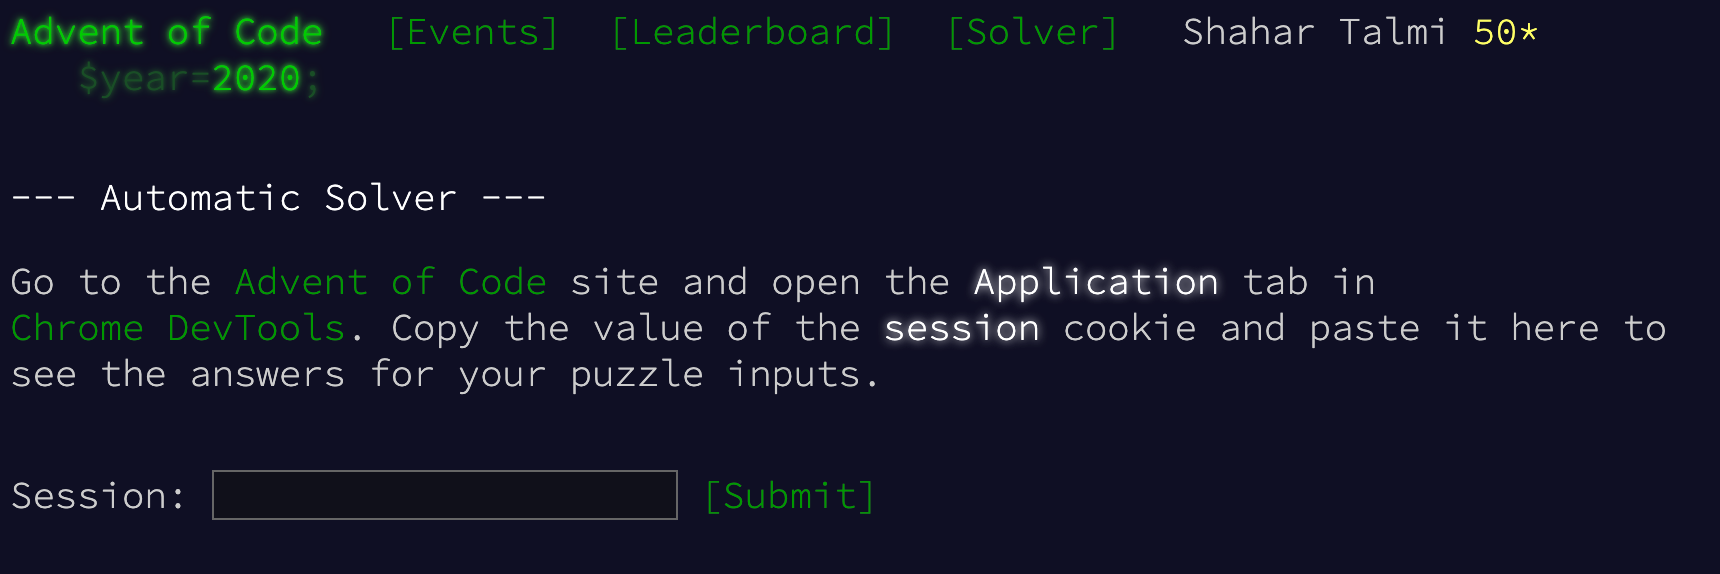
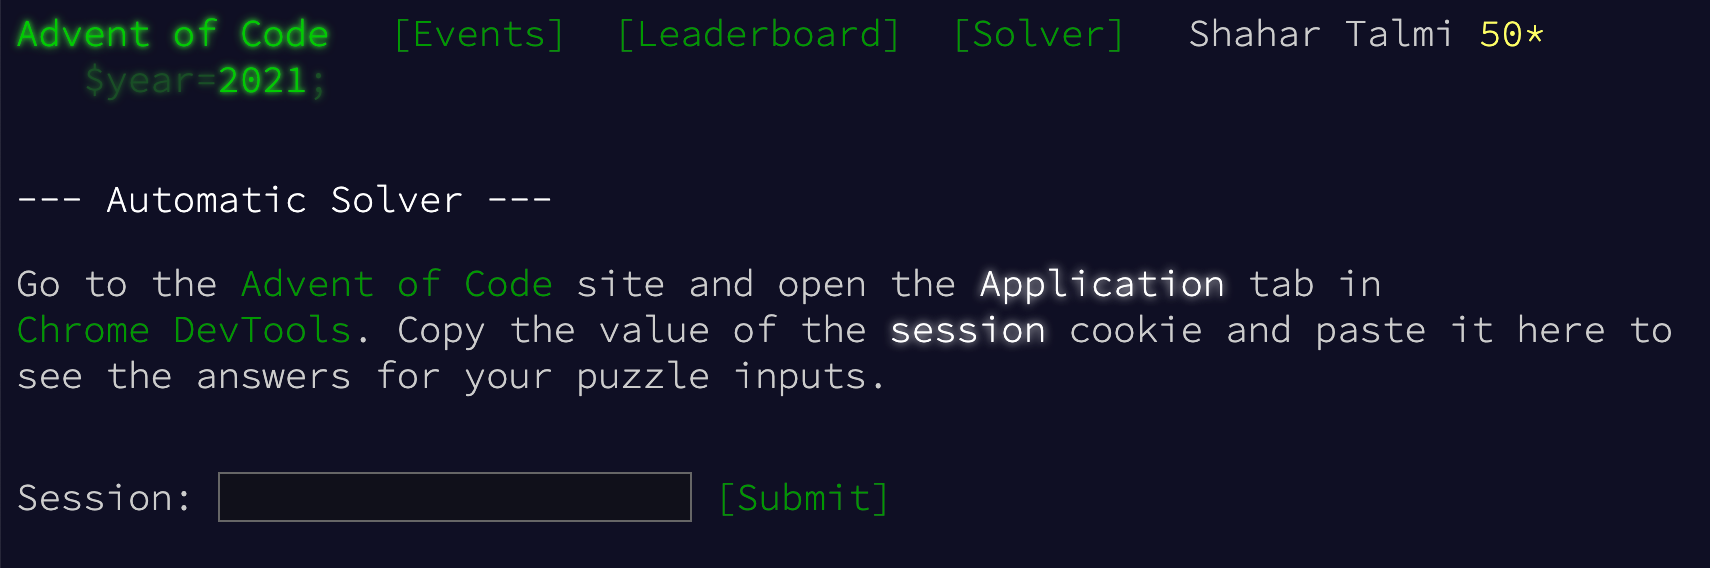
update readme

diff --git a/README.md b/README.md
@@ -4,19 +4,19 @@ This repository contains solutions for advent of code (https://adventofcode.com)
 
 Go ahead and try to solve the challenge on your own before using this spoiler!
 
-In order to use this solver simply go to: https://shahata.github.io/adventofcode-solver/src/2020/solver.html and follow the instructions.
+In order to use this solver simply go to: https://shahata.github.io/adventofcode-solver/src/2021/solver.html and follow the instructions.
 
-[![Solver](src/static/solver.png)](https://shahata.github.io/adventofcode-solver/src/2020/solver.html)
+[![Solver](src/static/solver.png)](https://shahata.github.io/adventofcode-solver/src/2021/solver.html)
 
-Alternatively, if you don't want to share your cookie value online or if some solutions fail to run in the browser, simply clone this git and run the following commands. Note this requires node@13 or newer.
+Alternatively, if you don't want to share your cookie value online or if some solutions fail to run in the browser, simply clone this git and run the following commands. Note this requires node@17 or newer.
 
 ```sh
 $ npm install
 $ export ADVENT_SESSION=your-cookie-value
 
-$ npm start 2020
+$ npm start 2021
 - or -
-$ npm start 2020 [day-number]
+$ npm start 2021 [day-number]
 ```
 
-Above commands will work for years 2015-2020.
+Above commands will work for years 2015-2021.
